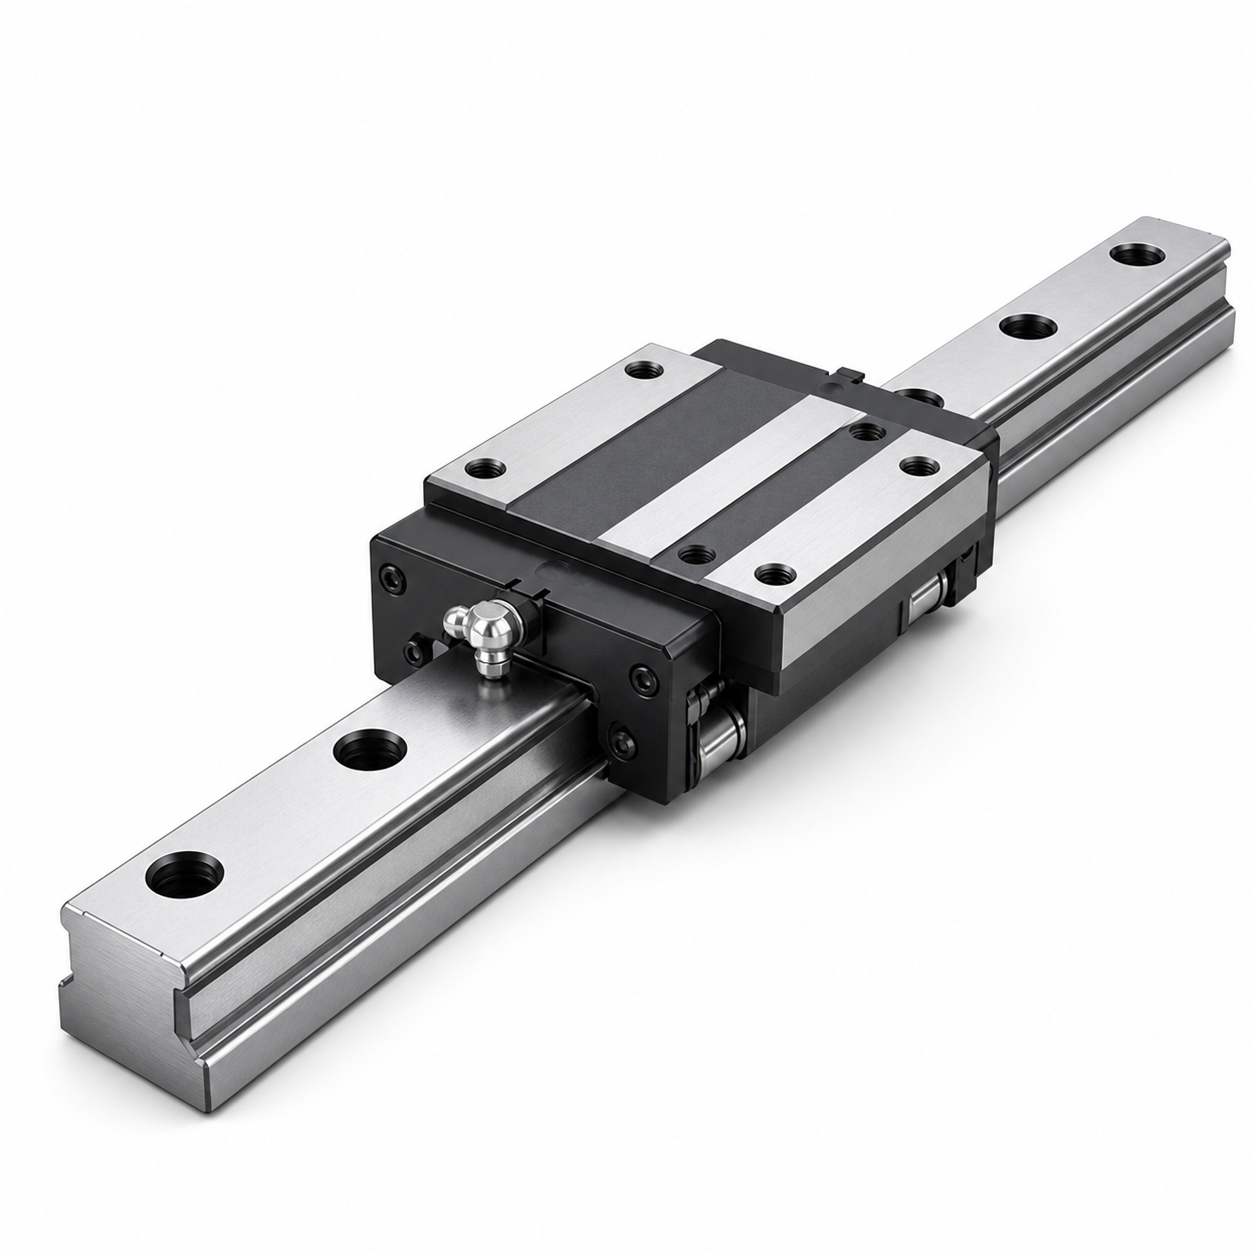
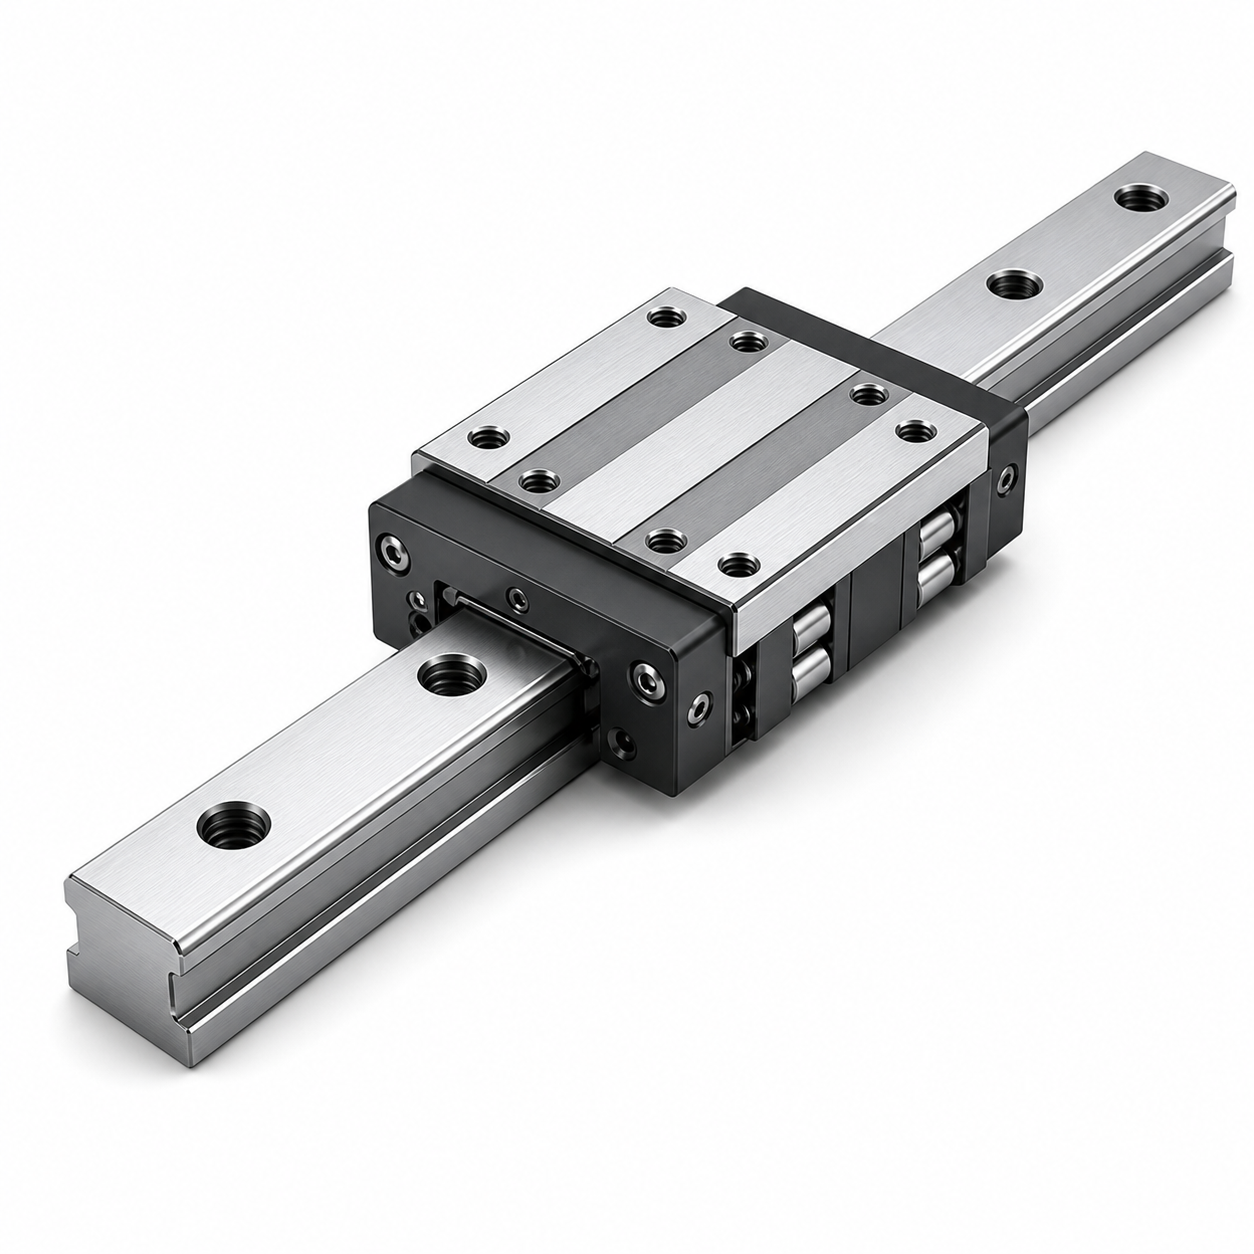
Update rail guide options and thumbnails

Changed region(s): [[0.0311, 0.1244, 0.9952, 0.9019]]

diff --git a/src/styles.css b/src/styles.css
@@ -116,7 +116,7 @@ button {
   width: min(1100px, 96vw);
   margin: 0;
   color: transparent;
-  font-size: 82px;
+  font-size: 80px;
   line-height: 1.16;
   text-align: center;
   font-weight: 860;